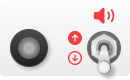
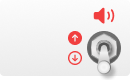
feat: pdb updates with new assets

Changed region(s): [[0.0615, 0.35, 0.4, 0.875]]

diff --git a/src/components/pdb/centerPannel.js b/src/components/pdb/centerPannel.js
@@ -1,18 +1,35 @@
 import { Image, ImageBackground, Text,View } from 'react-native'
 import GestureRecognizer  from 'react-native-swipe-gestures'
 import { create } from '../../utils/normalize'
-import { useState } from 'react'
+import { useEffect, useState } from 'react'
 import DimensionContext from '../../contexts/dimensionContext'
 import { useContext } from 'react'
 
-const CenterPannel = () => {
+const ROOTPATH = '../../assets/pdb/center-display-pannel'
 
+const CenterPannel = () => {
     const { dimension } = useContext(DimensionContext)
     const [active, setActive] = useState(false)
+    const [ledOn, setLedOn] = useState(false)
     // Images' Paths
-    const backgroundPath = require('../../assets/pdb/center-display-pannel/background.png')
-    const alarmPath = active ? require('../../assets/pdb/center-display-pannel/on-alarm.png') : require('../../assets/pdb/center-display-pannel/off-alarm.png')
+    const backgroundPath = require(`${ROOTPATH}/background.png`)
+    const alarmPath = active ? require(`${ROOTPATH}/on-alarm.png`) : require(`${ROOTPATH}/off-alarm.png`)
+    const ledPath = ledOn ? require(`${ROOTPATH}/on-led.png`) : require(`${ROOTPATH}/off-led.png`)
 
+
+    useEffect(()=>{
+        if (active) {
+            let state = true
+            setLedOn(state)
+            const id = setInterval(()=>{
+                setLedOn(!state)
+                state  = !state
+            },1000)
+            return () => clearInterval(id)
+        } else {
+            setLedOn(false)
+        } 
+    },[active])
 
     const styles = create({
         backgroundImage : {
@@ -32,11 +49,18 @@ const CenterPannel = () => {
             top : dimension* 0.275,
             left : dimension* 0.04
         },
+        led : {
+            resizeMode : 'stretch',
+            height : dimension* 0.06,
+            width : dimension* 0.1,
+            top : dimension* 0.215,
+            left : dimension* 0.04
+        },
         pressable : {
             height : dimension* 0.06,
-            width : dimension* 0.04,
-            top : dimension* 0.21,
-            left : dimension* 0.065
+            width : dimension* 0.05,
+            top : dimension* 0.15,
+            left : dimension* 0.065,
         },
         zeroDisplay : {
             top : dimension*0.075,
@@ -95,6 +119,7 @@ const CenterPannel = () => {
                 </View>
             </View>
             <Image source={alarmPath} style={styles.alarm}/>
+            <Image source={ledPath} style={styles.led}/>
             <GestureRecognizer onSwipeDown={()=> setActive(false)} onSwipeUp={()=>setActive(true)}>
                 <View style={styles.pressable}/>
             </GestureRecognizer>

diff --git a/src/components/pdb/rightPannel.js b/src/components/pdb/rightPannel.js
@@ -6,22 +6,21 @@ import { create } from '../../utils/normalize'
 import DimensionContext from '../../contexts/dimensionContext'
 import { useContext } from 'react'
 
+const ROOTPATH = '../../assets/pdb/right-knob-pannel'
 const RightPannel = () => {
 
     const { dimension } = useContext(DimensionContext)
     
     // Images' Paths
-    const backgroundPath = require('../../assets/pdb/right-knob-pannel/background.png')
-    const zeroKnobPath = require('../../assets/pdb/right-knob-pannel/zero-knob.png')
-    const alarmFuncKnobPath = require('../../assets/pdb/right-knob-pannel/alarm-and-function-knob.png')
+    const backgroundPath = require(`${ROOTPATH}/background.png`)
+    const functionKnob = require(`${ROOTPATH}/function-knob.png`)
 
     // Degrees Ranges
     const degRange = [0,360]
     const funcDegRange = [0,216]
     
     // Size
-    const zeroKnobSize = dimension*(0.09)
-    const alarmFuncKnobSize = dimension*(0.08)
+    const knobSize = dimension*(0.08)
 
     // Rotation Shared Values
     const zeroRotation = useSharedValue(0)
@@ -42,22 +41,22 @@ const RightPannel = () => {
         },
         zeroKnob : {
             resizeMode : 'stretch',
-            top : dimension* 0.080,
+            top : dimension* 0.083,
         },
         alarmKnob : {
-            top : dimension* 0.105
+            top : dimension* 0.12
         },
         funcKnob : {
-            top : dimension* 0.175,
+            top : dimension* 0.185,
             transform : [{ rotateZ: '90deg' }]
         }
     })
 
     return (
         <ImageBackground source={backgroundPath} style={styles.background} imageStyle={styles.backgroundImage}>
-            <Knob imagePath={zeroKnobPath} rotation={zeroRotation}  degRange={degRange} size={zeroKnobSize} style={styles.zeroKnob}/>
-            <Knob imagePath={alarmFuncKnobPath} rotation={alarmRotation}  degRange={degRange} size={alarmFuncKnobSize} style={styles.alarmKnob}/>
-            <IntervalKnob imagePath={alarmFuncKnobPath} rotation={funcRotation}  degRange={funcDegRange} size={alarmFuncKnobSize} style={styles.funcKnob}/>
+            <Knob imagePath={functionKnob} rotation={zeroRotation}  degRange={degRange} size={knobSize} style={styles.zeroKnob}/>
+            <Knob imagePath={functionKnob} rotation={alarmRotation}  degRange={degRange} size={knobSize} style={styles.alarmKnob}/>
+            <IntervalKnob imagePath={functionKnob} rotation={funcRotation}  degRange={funcDegRange} size={knobSize} style={styles.funcKnob}/>
         </ImageBackground>
     )
 }

diff --git a/src/components/blender/meter.js b/src/components/blender/meter.js
@@ -5,13 +5,14 @@ import { create } from '../../utils/normalize'
 import DimensionContext from '../../contexts/dimensionContext'
 import { useContext } from 'react'
 
+const ROOTPATH = '../../assets/blender'
 const Meter = ({ type }) => {
 
     const { dimension } = useContext(DimensionContext)
-    const backgroundPath = require('../../assets/blender/background.png')
-    const bubblePath = require('../../assets/blender/bubble.png')
-    const knobPath = require('../../assets/blender/knob.png')
-    const tagsPath =  type === 'ml-min' ? require('../../assets/blender/ml-min/tags.png') : require('../../assets/blender/LPM/tags.png')
+    const backgroundPath = require(`${ROOTPATH}/background.png`)
+    const bubblePath = require(`${ROOTPATH}/bubble.png`)
+    const knobPath = require(`${ROOTPATH}/knob.png`)
+    const tagsPath =  type === 'ml-min' ? require(`${ROOTPATH}/ml-min/tags.png`) : require(`${ROOTPATH}/LPM/tags.png`)
 
     const imageLeftOffset =  type === 'ml-min' ? dimension*0.02  : dimension*0.01
 

diff --git a/src/components/pdb/leftPannel.js b/src/components/pdb/leftPannel.js
@@ -5,12 +5,13 @@ import { create } from '../../utils/normalize'
 import DimensionContext from '../../contexts/dimensionContext'
 import { useContext } from 'react'
 
+const ROOTPATH = '../../assets/pdb/left-lock-pannel'
 const LeftPannel = () => {
 
     const { dimension } = useContext(DimensionContext)
     // Images' Paths
-    const backgroundPath = require('../../assets/pdb/left-lock-pannel/background.png')
-    const knobPath = require('../../assets/pdb/left-lock-pannel/big-knob.png')
+    const backgroundPath = require(`${ROOTPATH}/background.png`)
+    const knobPath = require(`${ROOTPATH}/big-knob.png`)
 
     const degRange = [0,72]
     const knobSize = dimension*(0.16)

diff --git a/src/components/blender/mixer.js b/src/components/blender/mixer.js
@@ -5,12 +5,13 @@ import { create } from '../../utils/normalize'
 import DimensionContext from '../../contexts/dimensionContext'
 import { useContext } from 'react'
 
+const ROOTPATH = '../../assets/blender/Mixer'
 const Mixer = () => {
 
     const { dimension } = useContext(DimensionContext)
     // Images' Paths
-    const backgroundPath = require('../../assets/blender/Mixer/background.png')
-    const knobPath = require('../../assets/blender/Mixer/knob.png')
+    const backgroundPath = require(`${ROOTPATH}/background.png`)
+    const knobPath = require(`${ROOTPATH}/knob.png`)
 
     const degRange = [0,248]
     const knobSize = dimension*(0.25)
